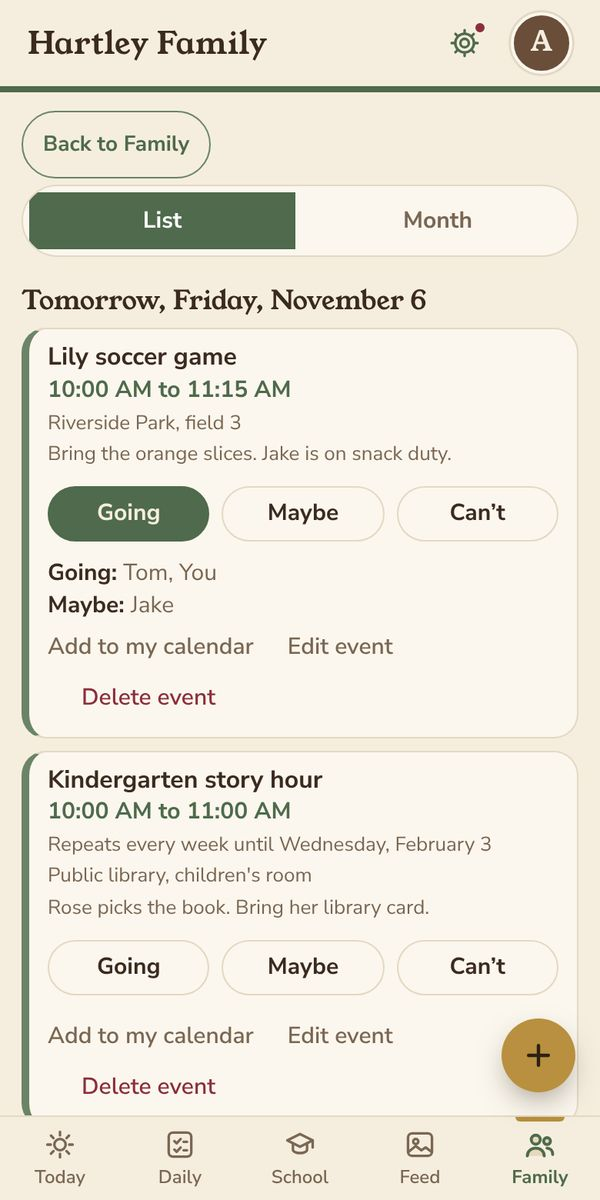
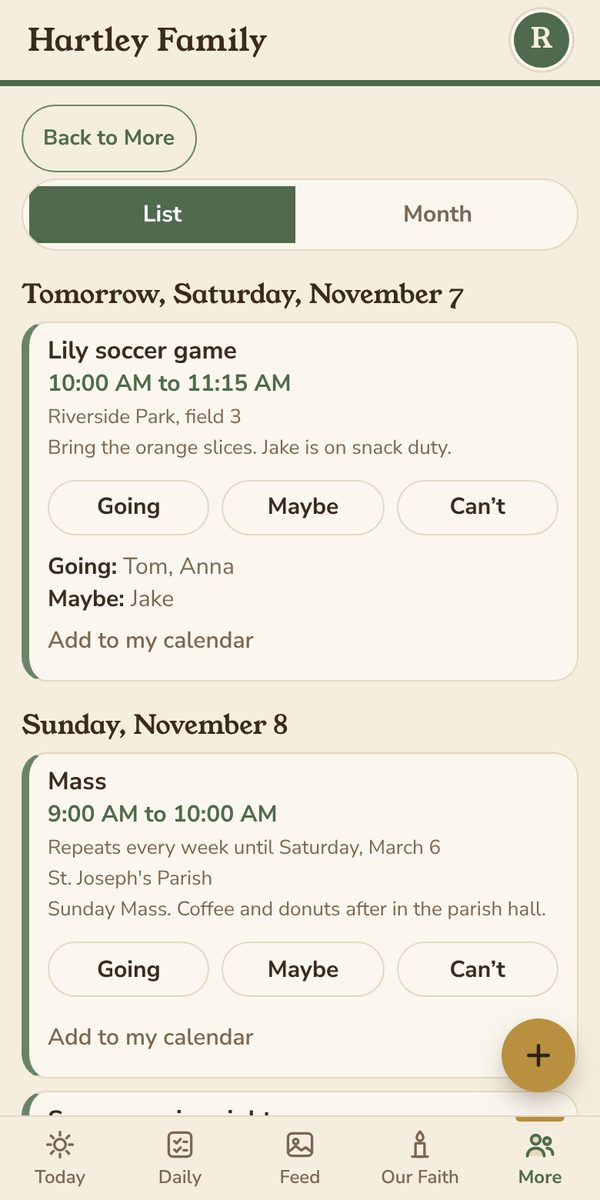
Retake app pictures with the new bottom bar (kid screens)
Claude-Session: https://claude.ai/code/session_015jS7JHYAcYwSkH7EbgyXJr

diff --git a/features.html b/features.html
@@ -15,7 +15,7 @@
 <meta charset="utf-8"><meta name="viewport" content="width=device-width, initial-scale=1">
 <title>Features | My Domestic Church</title><meta name="description" content="What is inside a My Domestic Church family site.">
 <meta property="og:type" content="website"><meta property="og:site_name" content="My Domestic Church"><meta property="og:title" content="Features | My Domestic Church"><meta property="og:description" content="What is inside a My Domestic Church family site."><meta property="og:url" content="https://mydomesticchurch.org/features"><meta property="og:image" content="https://mydomesticchurch.org/logo/share.jpg"><meta name="twitter:card" content="summary_large_image"><meta name="theme-color" content="#566B4F">
-<link rel="stylesheet" href="/style.css?v=13"><link rel="stylesheet" href="/header.css?v=2"></head><body>
+<link rel="stylesheet" href="/style.css?v=14"><link rel="stylesheet" href="/header.css?v=2"></head><body>
 <div class="top"><div class="wrap">
   <a class="logo" href="/"><img src="/logo/crest-shield.svg" alt="">My Domestic Church</a>
   <nav class="mnav" aria-label="Main">
@@ -31,7 +31,7 @@
 <h1>Everything your household needs, nothing it doesn't</h1>
 <p class="lede">Every feature has its own On/Off switch, so your family sees only what you choose. Screens show sample family data.</p></div>
 <div class="feats">
-<article class="feat"><div class="ftext"><h2>Prayer</h2><p>A prayer book in English and Latin with search and favorites, a guided Rosary and other guided devotions, and a family prayer list. The liturgical season and feast days appear through the app, with a button to the day's Mass readings.</p></div><div class="phone"><div class="frame"><div class="screen"><img src="/shots/prayer.jpg" alt="The Prayers page"></div></div></div></article>
+<article class="feat"><div class="ftext"><h2>Prayer</h2><p>A prayer book in English and Latin with search and favorites, a guided Rosary and other guided devotions, and a family prayer list. The liturgical season and feast days appear through the app, with a button to the day's Mass readings.</p></div><div class="phone"><div class="frame"><div class="screen"><img src="/shots/prayer.jpg" alt="The guided Rosary on the Our Faith tab"></div></div></div></article>
 <article class="feat flip"><div class="ftext"><h2>School</h2><p>Courses for each child spread over your school days, with assignments, due dates and a week view. Each child sees only their own work, and parents see who is on pace or behind. Attendance fills itself in as lessons are checked off, and you can print a year report for each child.</p></div><div class="phone"><div class="frame"><div class="screen"><img src="/shots/school-phone.jpg" alt="The School page"></div></div></div></article>
 <article class="feat nophone"><div class="ftext"><h2>Chores &amp; dinner</h2><p>Daily chore lists and printable charts for each child, and a parent view to see who is behind. If you like, add deadlines, extra jobs for points and a family store (<a href="/rewards">how rewards work</a>). A dinner plan shows who cooks and who does the dishes, with reminders.</p></div></article>
 <article class="feat"><div class="ftext"><h2>Today</h2><p>A quick look at the day for whoever is looking: what is happening now, what needs them, and dinner, under a family photo of your choosing. Kids see their school and chores first; parents see who needs a look.</p></div><div class="phone"><div class="frame"><div class="screen"><img src="/shots/today.jpg" alt="The Today screen"></div></div></div></article>

diff --git a/help.html b/help.html
@@ -15,7 +15,7 @@
 <meta charset="utf-8"><meta name="viewport" content="width=device-width, initial-scale=1">
 <title>Help | My Domestic Church</title><meta name="description" content="Answers and short how-tos for families using the My Domestic Church app: signing in, alerts, chores, school, prayer, printing and more.">
 <meta property="og:type" content="website"><meta property="og:site_name" content="My Domestic Church"><meta property="og:title" content="Help | My Domestic Church"><meta property="og:description" content="Answers and short how-tos for families using the My Domestic Church app: signing in, alerts, chores, school, prayer, printing and more."><meta property="og:url" content="https://mydomesticchurch.org/help"><meta property="og:image" content="https://mydomesticchurch.org/logo/share.jpg"><meta name="twitter:card" content="summary_large_image"><meta name="theme-color" content="#566B4F">
-<link rel="stylesheet" href="/style.css?v=13"><link rel="stylesheet" href="/header.css?v=2"></head><body>
+<link rel="stylesheet" href="/style.css?v=14"><link rel="stylesheet" href="/header.css?v=2"></head><body>
 <div class="top"><div class="wrap">
   <a class="logo" href="/"><img src="/logo/crest-shield.svg" alt="">My Domestic Church</a>
   <nav class="mnav" aria-label="Main">
@@ -226,7 +226,7 @@
 <ol class="how"><li>Tap the <strong>Our Faith</strong> tab.</li><li>Tap <strong>Start</strong> on the Rosary or another devotion to pray it one step at a time.</li></ol>
 <p>Tap the star next to a prayer to keep it in your favorites and on Today. The prayer book has the common prayers in English and Latin.</p>
 </div>
-<figure class="shot"><img src="/help/img/prayers.jpg" alt="The Prayers page with guided devotions such as the Holy Rosary, each with a Start button" width="600" height="1200" loading="lazy"></figure>
+<figure class="shot"><img src="/help/img/prayers.jpg" alt="The Our Faith tab with the Holy Bible, Our prayers and guided devotions such as the Holy Rosary, each with a Start button" width="600" height="1200" loading="lazy"></figure>
 </div></details>
 
 <details id="our-prayers"><summary>Can we keep a list of who we are praying for?</summary><div class="ans">

diff --git a/rewards.html b/rewards.html
@@ -15,7 +15,7 @@
 <meta charset="utf-8"><meta name="viewport" content="width=device-width, initial-scale=1">
 <title>Rewards &amp; store | My Domestic Church</title><meta name="description" content="How chores, deadlines, points and the family store work in the My Domestic Church app. All optional.">
 <meta property="og:type" content="website"><meta property="og:site_name" content="My Domestic Church"><meta property="og:title" content="Rewards &amp; store | My Domestic Church"><meta property="og:description" content="How chores, deadlines, points and the family store work in the My Domestic Church app. All optional."><meta property="og:url" content="https://mydomesticchurch.org/rewards"><meta property="og:image" content="https://mydomesticchurch.org/logo/share.jpg"><meta name="twitter:card" content="summary_large_image"><meta name="theme-color" content="#566B4F">
-<link rel="stylesheet" href="/style.css?v=13"><link rel="stylesheet" href="/header.css?v=2"></head><body>
+<link rel="stylesheet" href="/style.css?v=14"><link rel="stylesheet" href="/header.css?v=2"></head><body>
 <div class="top"><div class="wrap">
   <a class="logo" href="/"><img src="/logo/crest-shield.svg" alt="">My Domestic Church</a>
   <nav class="mnav" aria-label="Main">

diff --git a/screens.html b/screens.html
@@ -15,7 +15,7 @@
 <meta charset="utf-8"><meta name="viewport" content="width=device-width, initial-scale=1">
 <title>Screens and family life | My Domestic Church</title><meta name="description" content="Why this app is built to be checked quickly and put down.">
 <meta property="og:type" content="website"><meta property="og:site_name" content="My Domestic Church"><meta property="og:title" content="Screens and family life | My Domestic Church"><meta property="og:description" content="Why this app is built to be checked quickly and put down."><meta property="og:url" content="https://mydomesticchurch.org/screens"><meta property="og:image" content="https://mydomesticchurch.org/logo/share.jpg"><meta name="twitter:card" content="summary_large_image"><meta name="theme-color" content="#566B4F">
-<link rel="stylesheet" href="/style.css?v=13"><link rel="stylesheet" href="/header.css?v=2"></head><body>
+<link rel="stylesheet" href="/style.css?v=14"><link rel="stylesheet" href="/header.css?v=2"></head><body>
 <div class="top"><div class="wrap">
   <a class="logo" href="/"><img src="/logo/crest-shield.svg" alt="">My Domestic Church</a>
   <nav class="mnav" aria-label="Main">

diff --git a/our-story.html b/our-story.html
@@ -15,7 +15,7 @@
 <meta charset="utf-8"><meta name="viewport" content="width=device-width, initial-scale=1">
 <title>Our story | My Domestic Church</title><meta name="description" content="Why Darwin, a homeschool dad, built the My Domestic Church app.">
 <meta property="og:type" content="website"><meta property="og:site_name" content="My Domestic Church"><meta property="og:title" content="Our story | My Domestic Church"><meta property="og:description" content="Why Darwin, a homeschool dad, built the My Domestic Church app."><meta property="og:url" content="https://mydomesticchurch.org/our-story"><meta property="og:image" content="https://mydomesticchurch.org/logo/share.jpg"><meta name="twitter:card" content="summary_large_image"><meta name="theme-color" content="#566B4F">
-<link rel="stylesheet" href="/style.css?v=13"><link rel="stylesheet" href="/header.css?v=2"></head><body>
+<link rel="stylesheet" href="/style.css?v=14"><link rel="stylesheet" href="/header.css?v=2"></head><body>
 <div class="top"><div class="wrap">
   <a class="logo" href="/"><img src="/logo/crest-shield.svg" alt="">My Domestic Church</a>
   <nav class="mnav" aria-label="Main">

diff --git a/privacy.html b/privacy.html
@@ -15,7 +15,7 @@
 <meta charset="utf-8"><meta name="viewport" content="width=device-width, initial-scale=1">
 <title>Privacy | My Domestic Church</title><meta name="description" content="How My Domestic Church treats your family's information.">
 <meta property="og:type" content="website"><meta property="og:site_name" content="My Domestic Church"><meta property="og:title" content="Privacy | My Domestic Church"><meta property="og:description" content="How My Domestic Church treats your family's information."><meta property="og:url" content="https://mydomesticchurch.org/privacy"><meta property="og:image" content="https://mydomesticchurch.org/logo/share.jpg"><meta name="twitter:card" content="summary_large_image"><meta name="theme-color" content="#566B4F">
-<link rel="stylesheet" href="/style.css?v=13"><link rel="stylesheet" href="/header.css?v=2"></head><body>
+<link rel="stylesheet" href="/style.css?v=14"><link rel="stylesheet" href="/header.css?v=2"></head><body>
 <div class="top"><div class="wrap">
   <a class="logo" href="/"><img src="/logo/crest-shield.svg" alt="">My Domestic Church</a>
   <nav class="mnav" aria-label="Main">

diff --git a/blog.html b/blog.html
@@ -15,7 +15,7 @@
 <meta charset="utf-8"><meta name="viewport" content="width=device-width, initial-scale=1">
 <title>Blog | My Domestic Church</title><meta name="description" content="Stories and notes from a Catholic homeschool family.">
 <meta property="og:type" content="website"><meta property="og:site_name" content="My Domestic Church"><meta property="og:title" content="Blog | My Domestic Church"><meta property="og:description" content="Stories and notes from a Catholic homeschool family."><meta property="og:url" content="https://mydomesticchurch.org/blog"><meta property="og:image" content="https://mydomesticchurch.org/logo/share.jpg"><meta name="twitter:card" content="summary_large_image"><meta name="theme-color" content="#566B4F">
-<link rel="stylesheet" href="/style.css?v=13"><link rel="stylesheet" href="/header.css?v=2"></head><body>
+<link rel="stylesheet" href="/style.css?v=14"><link rel="stylesheet" href="/header.css?v=2"></head><body>
 <div class="top"><div class="wrap">
   <a class="logo" href="/"><img src="/logo/crest-shield.svg" alt="">My Domestic Church</a>
   <nav class="mnav" aria-label="Main">

diff --git a/index.html b/index.html
@@ -17,7 +17,7 @@
 <meta name="description" content="Private family sites for Catholic homeschool families.">
 <meta property="og:type" content="website"><meta property="og:site_name" content="My Domestic Church"><meta property="og:title" content="My Domestic Church"><meta property="og:description" content="Private family sites for Catholic homeschool families."><meta property="og:url" content="https://mydomesticchurch.org/"><meta property="og:image" content="https://mydomesticchurch.org/logo/share.jpg"><meta name="twitter:card" content="summary_large_image">
 <meta name="theme-color" content="#2F3D2B">
-<link rel="stylesheet" href="/home.css?v=6"><link rel="stylesheet" href="/header.css?v=2"></head><body>
+<link rel="stylesheet" href="/home.css?v=7"><link rel="stylesheet" href="/header.css?v=2"></head><body>
 <div class="top"><div class="wrap">
  <a class="logo" href="/"><img src="/logo/crest-shield.svg" alt="">My Domestic Church</a>
  <nav class="mnav" aria-label="Main">

diff --git a/404.html b/404.html
@@ -14,7 +14,7 @@
 </script>
 <meta charset="utf-8"><meta name="viewport" content="width=device-width, initial-scale=1">
 <title>Page not found | My Domestic Church</title><meta name="robots" content="noindex"><meta name="theme-color" content="#566B4F">
-<link rel="stylesheet" href="/style.css?v=13"><link rel="stylesheet" href="/header.css?v=2"></head><body>
+<link rel="stylesheet" href="/style.css?v=14"><link rel="stylesheet" href="/header.css?v=2"></head><body>
 <div class="top"><div class="wrap">
   <a class="logo" href="/"><img src="/logo/crest-shield.svg" alt="">My Domestic Church</a>
   <nav class="mnav" aria-label="Main">
